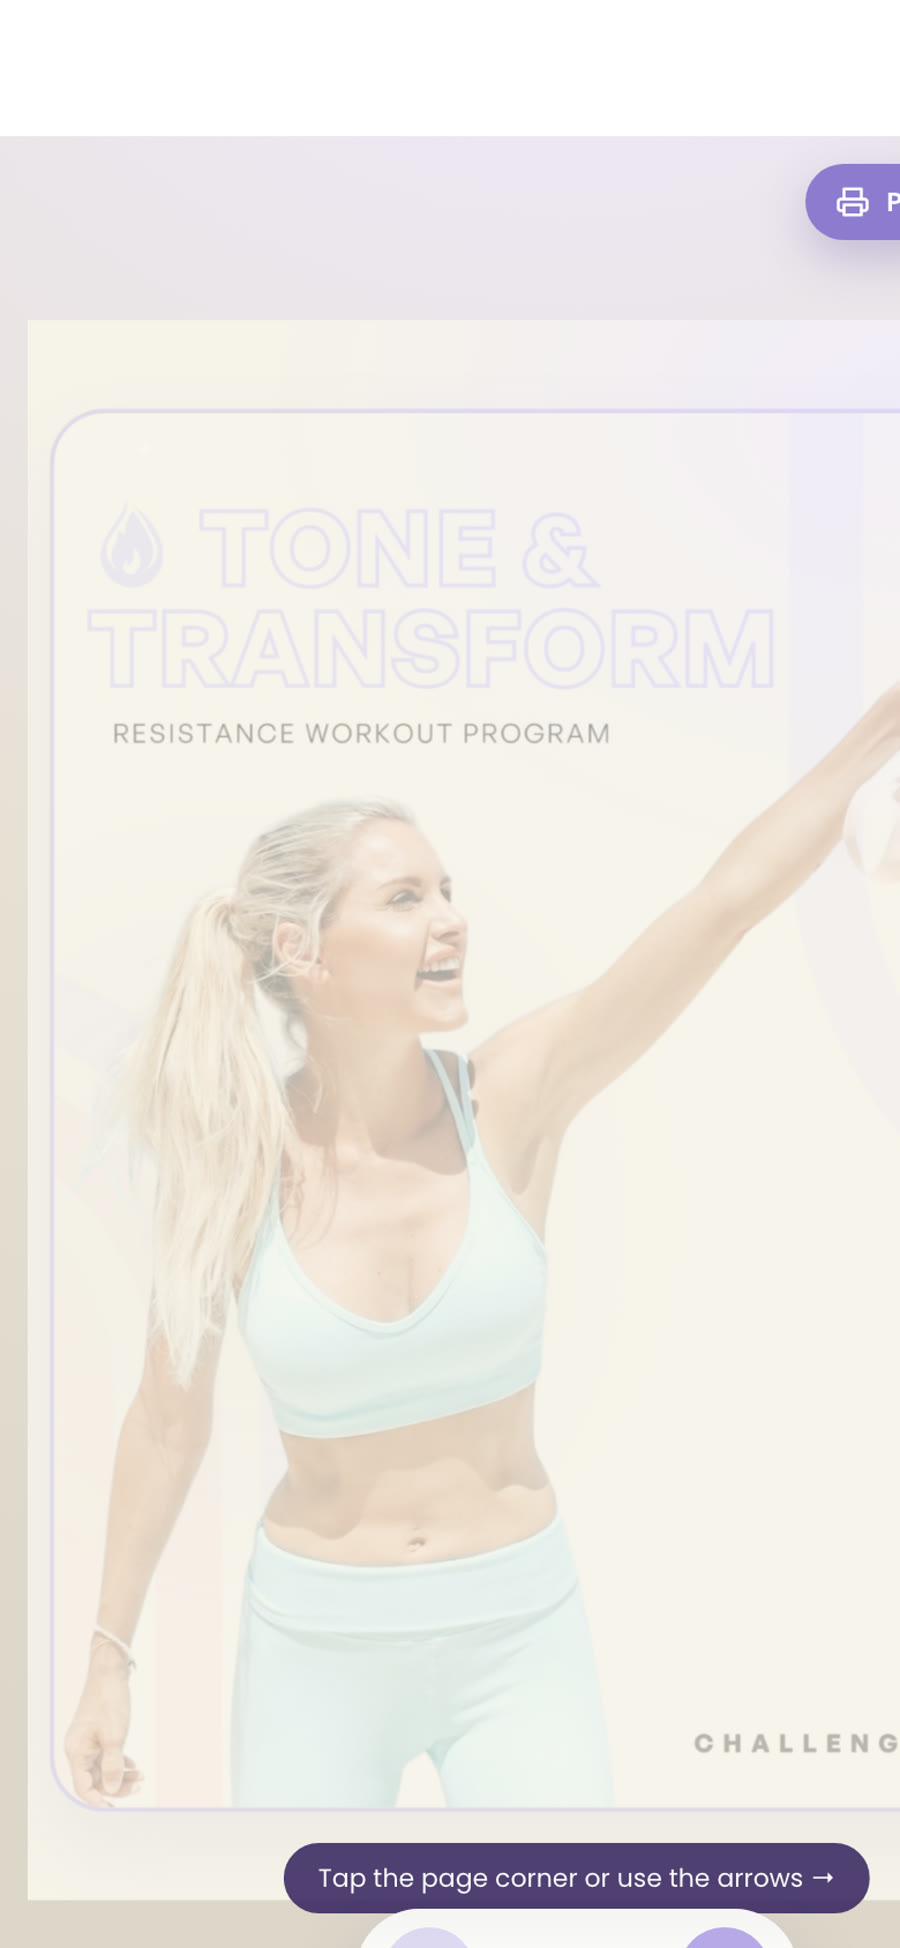
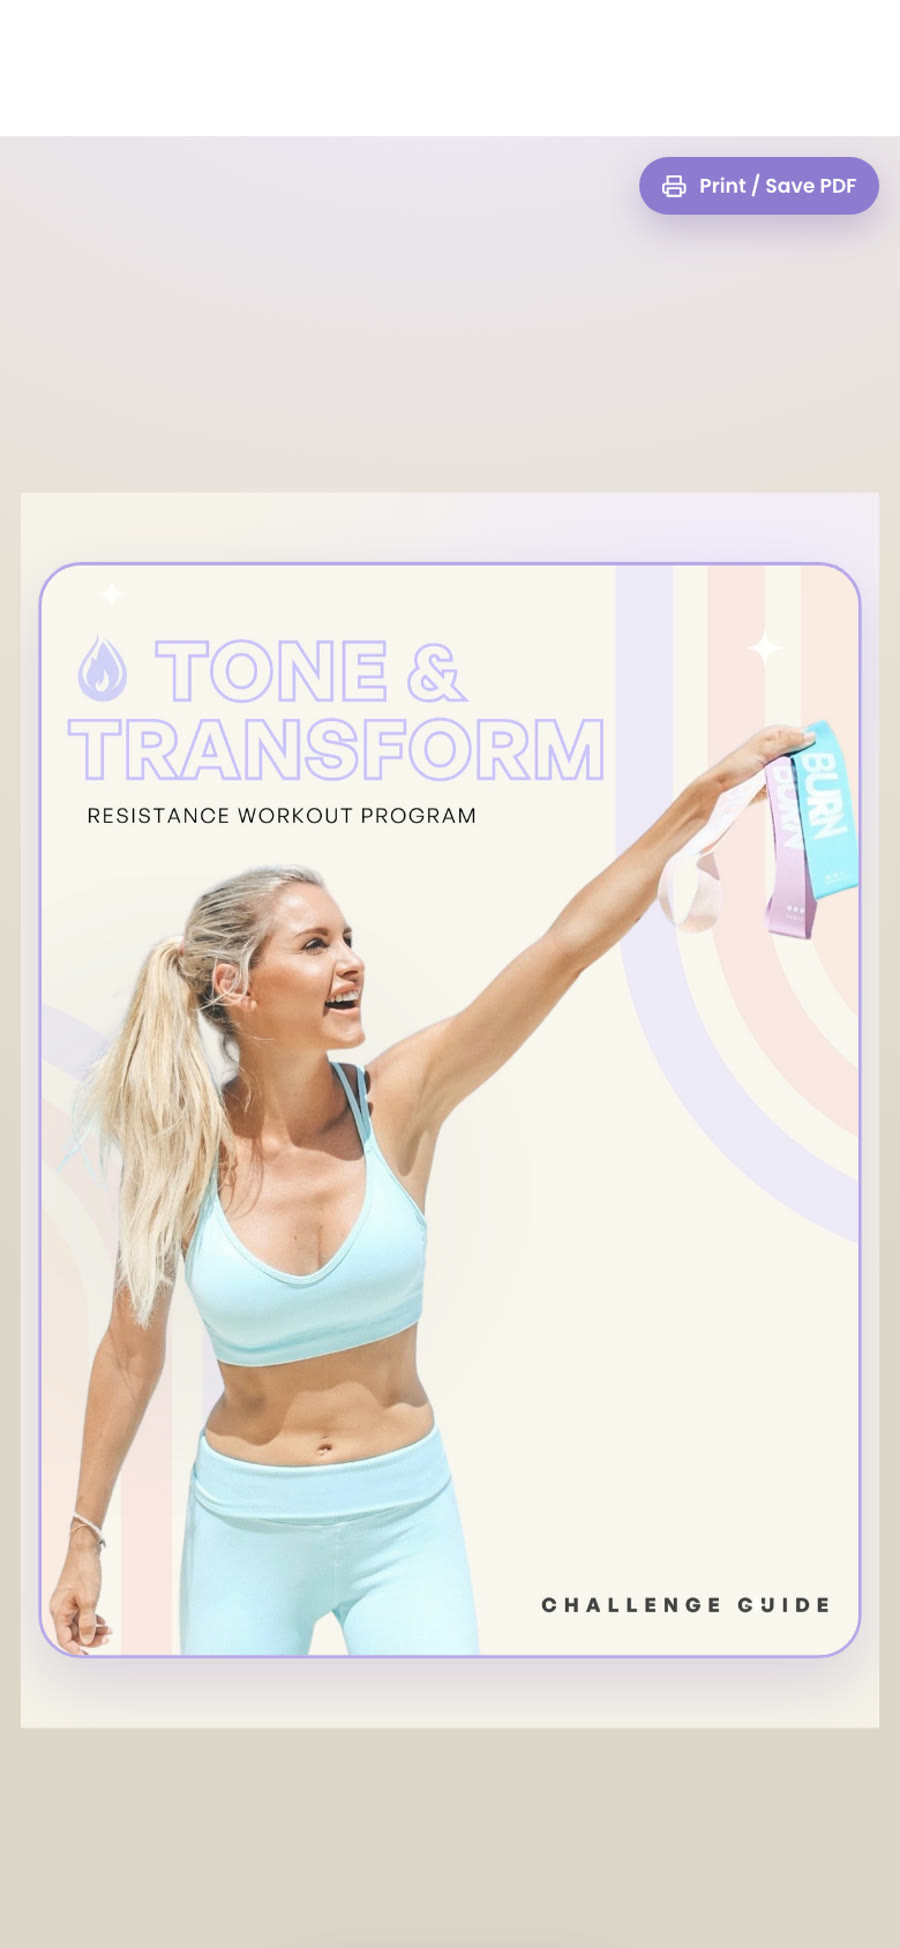
Feedback round: real guide screenshot, Ask BURN AI demo picks a real short no-equipment workout, page title

diff --git a/v6/assets/life.js b/v6/assets/life.js
@@ -135,7 +135,8 @@
     function typeInto(b, txt, done) { if (reduced) { b.textContent = txt; return done(); } var i = 0; (function step() { b.textContent = txt.slice(0, ++i); if (i < txt.length) setTimeout(step, 18); else done(); })(); }
     function convo() {
       if (!DATA) return;
-      var w = DATA.w.filter(function (x) { return x.g.indexOf('no equipment') > -1 && x.m >= 15 && x.m <= 24 && !SKIP.test(x.t); })[0] || DATA.w[0];
+      var ne = DATA.w.filter(function (x) { return (x.g.indexOf('no equipment') > -1 || x.g.indexOf('bodyweight') > -1) && !SKIP.test(x.t) && x.m <= 22; }).sort(function (a, b) { return Math.abs(a.m - 20) - Math.abs(b.m - 20); });
+      var w = ne[0]; if (!w) return;
       var r = DATA.rec.slice().sort(function (a, b) { return b.p - a.p; })[0];
       var script = [
         ['me', 'I’ve only got 20 minutes and no equipment today. What should I do?'],

diff --git a/v6/index.html b/v6/index.html
@@ -3,7 +3,7 @@
 <head>
 <meta charset="utf-8">
 <meta name="viewport" content="width=device-width,initial-scale=1">
-<title>Your Strongest Self Starts Here | BURN by Rebecca Louise</title>
+<title>BURN by Rebecca Louise | Smart, personalised training built around you</title>
 <link rel="canonical" href="https://burnrebeccalouise.com/">
 <meta name="description" content="Train with Rebecca Louise. Follow-along workouts, monthly challenges, recipes and mindset in one app.">
 <link rel="preconnect" href="https://fonts.googleapis.com"><link rel="preconnect" href="https://fonts.gstatic.com" crossorigin><link href="https://fonts.googleapis.com/css2?family=Cormorant+Garamond:ital,wght@0,500;0,600;1,500&family=Inter:wght@300;400;500;600&display=swap" rel="stylesheet">
